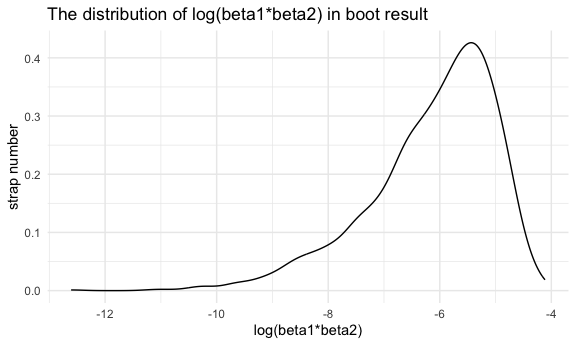
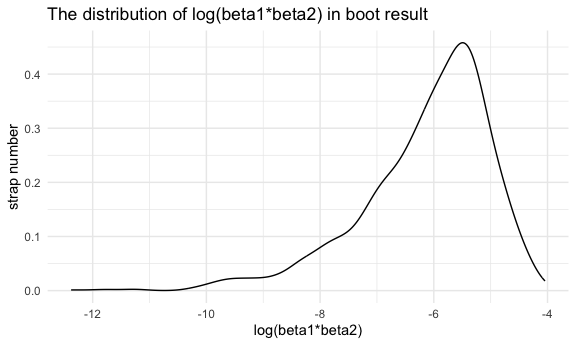
add backward stepwise for variable selection in problem 3

diff --git a/p8105_hw6_zl2746.md b/p8105_hw6_zl2746.md
@@ -220,18 +220,18 @@ boot_results2
 ```
 
     ## # A tibble: 5,000 × 6
-    ##    strap_number r_squared `(Intercept)`  tmin       prcp log_beta
-    ##           <int>     <dbl>         <dbl> <dbl>      <dbl>    <dbl>
-    ##  1            1     0.903          8.14 0.994 -0.0000562   NaN   
-    ##  2            2     0.913          8.12 1.00   0.00334      -5.70
-    ##  3            3     0.929          8.00 1.04  -0.00615     NaN   
-    ##  4            4     0.915          7.93 1.02  -0.00271     NaN   
-    ##  5            5     0.926          7.49 1.04  -0.00250     NaN   
-    ##  6            6     0.924          8.14 1.03  -0.00752     NaN   
-    ##  7            7     0.917          7.70 1.03   0.00301      -5.78
-    ##  8            8     0.917          8.57 0.998 -0.00769     NaN   
-    ##  9            9     0.927          7.96 1.04  -0.00483     NaN   
-    ## 10           10     0.918          8.12 1.00   0.00819      -4.80
+    ##    strap_number r_squared `(Intercept)`  tmin      prcp log_beta
+    ##           <int>     <dbl>         <dbl> <dbl>     <dbl>    <dbl>
+    ##  1            1     0.922          8.13 1.02  -0.00616    NaN   
+    ##  2            2     0.915          8.13 1.01   0.00339     -5.67
+    ##  3            3     0.933          7.73 1.04  -0.00592    NaN   
+    ##  4            4     0.932          7.82 1.04  -0.00791    NaN   
+    ##  5            5     0.932          8.03 1.03  -0.0102     NaN   
+    ##  6            6     0.916          7.76 1.02  -0.000261   NaN   
+    ##  7            7     0.907          8.08 1.01   0.00113     -6.77
+    ##  8            8     0.895          8.13 0.992  0.000245    -8.32
+    ##  9            9     0.898          7.93 1.01  -0.00585    NaN   
+    ## 10           10     0.917          8.09 1.01  -0.00397    NaN   
     ## # ℹ 4,990 more rows
 
 ``` r
@@ -340,7 +340,7 @@ fraction = nrow(valid_log)/5000
 fraction
 ```
 
-    ## [1] 0.3234
+    ## [1] 0.3308
 
 ``` r
 # construct a CI for log(beta1*beta2)
@@ -355,7 +355,7 @@ boot_results2 |>
     ## # A tibble: 1 × 2
     ##   ci_lower ci_upper
     ##      <dbl>    <dbl>
-    ## 1    -8.88    -4.62
+    ## 1    -9.11    -4.53
 
 ``` r
 # construct a CI for r squared
@@ -371,7 +371,7 @@ boot_results2 |>
     ##      <dbl>    <dbl>
     ## 1    0.889    0.940
 
-**There is only 0.3234 of dataset can be used for log(beta1 \* beta2).**
+**There is only 0.3308 of dataset can be used for log(beta1 \* beta2).**
 
 ## Problem 3
 
@@ -455,55 +455,189 @@ summary(model)
     ## F-statistic: 524.6 on 21 and 4320 DF,  p-value: < 2.2e-16
 
 ``` r
-# variable selection
-model |>
-  broom::tidy() |>
-  filter(p.value < 0.05)
+# variable selection by backward stepwise
+model1 = step(model, direction = "backward")
 ```
 
-    ## # A tibble: 8 × 5
-    ##   term        estimate std.error statistic   p.value
-    ##   <chr>          <dbl>     <dbl>     <dbl>     <dbl>
-    ## 1 (Intercept) -6307.     659.        -9.57 1.80e- 21
-    ## 2 babysexmale   -28.7      8.47      -3.39 7.02e-  4
-    ## 3 bhead         131.       3.45      37.9  2.16e-271
-    ## 4 blength        75.0      2.02      37.1  1.75e-261
-    ## 5 delwt           4.10     0.395     10.4  5.62e- 25
-    ## 6 gaweeks        11.5      1.47       7.88 4.06e- 15
-    ## 7 parity         95.5     40.5        2.36 1.83e-  2
-    ## 8 smoken         -4.85     0.587     -8.27 1.78e- 16
+    ## Start:  AIC=48717.83
+    ## bwt ~ babysex + bhead + blength + delwt + fincome + frace + gaweeks + 
+    ##     malform + menarche + mheight + momage + mrace + parity + 
+    ##     pnumlbw + pnumsga + ppbmi + ppwt + smoken + wtgain
+    ## 
+    ## 
+    ## Step:  AIC=48717.83
+    ## bwt ~ babysex + bhead + blength + delwt + fincome + frace + gaweeks + 
+    ##     malform + menarche + mheight + momage + mrace + parity + 
+    ##     pnumlbw + pnumsga + ppbmi + ppwt + smoken
+    ## 
+    ## 
+    ## Step:  AIC=48717.83
+    ## bwt ~ babysex + bhead + blength + delwt + fincome + frace + gaweeks + 
+    ##     malform + menarche + mheight + momage + mrace + parity + 
+    ##     pnumlbw + ppbmi + ppwt + smoken
+    ## 
+    ## 
+    ## Step:  AIC=48717.83
+    ## bwt ~ babysex + bhead + blength + delwt + fincome + frace + gaweeks + 
+    ##     malform + menarche + mheight + momage + mrace + parity + 
+    ##     ppbmi + ppwt + smoken
+    ## 
+    ##            Df Sum of Sq       RSS   AIC
+    ## - frace     4    124365 320848704 48712
+    ## - malform   1      1419 320725757 48716
+    ## - ppbmi     1      6346 320730684 48716
+    ## - momage    1     28661 320752999 48716
+    ## - mheight   1     66886 320791224 48717
+    ## - menarche  1    111679 320836018 48717
+    ## - ppwt      1    131132 320855470 48718
+    ## <none>                  320724338 48718
+    ## - fincome   1    193454 320917792 48718
+    ## - parity    1    413584 321137922 48721
+    ## - mrace     3    868321 321592659 48724
+    ## - babysex   1    853796 321578134 48727
+    ## - gaweeks   1   4611823 325336161 48778
+    ## - smoken    1   5076393 325800732 48784
+    ## - delwt     1   8008891 328733230 48823
+    ## - blength   1 102050296 422774634 49915
+    ## - bhead     1 106535716 427260054 49961
+    ## 
+    ## Step:  AIC=48711.51
+    ## bwt ~ babysex + bhead + blength + delwt + fincome + gaweeks + 
+    ##     malform + menarche + mheight + momage + mrace + parity + 
+    ##     ppbmi + ppwt + smoken
+    ## 
+    ##            Df Sum of Sq       RSS   AIC
+    ## - malform   1      1447 320850151 48710
+    ## - ppbmi     1      6975 320855679 48710
+    ## - momage    1     28379 320877083 48710
+    ## - mheight   1     69502 320918206 48710
+    ## - menarche  1    115708 320964411 48711
+    ## - ppwt      1    133961 320982665 48711
+    ## <none>                  320848704 48712
+    ## - fincome   1    194405 321043108 48712
+    ## - parity    1    414687 321263390 48715
+    ## - babysex   1    852133 321700837 48721
+    ## - gaweeks   1   4625208 325473911 48772
+    ## - smoken    1   5036389 325885093 48777
+    ## - delwt     1   8013099 328861802 48817
+    ## - mrace     3  13540415 334389119 48885
+    ## - blength   1 101995688 422844392 49908
+    ## - bhead     1 106662962 427511666 49956
+    ## 
+    ## Step:  AIC=48709.53
+    ## bwt ~ babysex + bhead + blength + delwt + fincome + gaweeks + 
+    ##     menarche + mheight + momage + mrace + parity + ppbmi + ppwt + 
+    ##     smoken
+    ## 
+    ##            Df Sum of Sq       RSS   AIC
+    ## - ppbmi     1      6928 320857079 48708
+    ## - momage    1     28660 320878811 48708
+    ## - mheight   1     69320 320919470 48708
+    ## - menarche  1    116027 320966177 48709
+    ## - ppwt      1    133894 320984044 48709
+    ## <none>                  320850151 48710
+    ## - fincome   1    193784 321043934 48710
+    ## - parity    1    414482 321264633 48713
+    ## - babysex   1    851279 321701430 48719
+    ## - gaweeks   1   4624003 325474154 48770
+    ## - smoken    1   5035195 325885346 48775
+    ## - delwt     1   8029079 328879230 48815
+    ## - mrace     3  13553320 334403471 48883
+    ## - blength   1 102009225 422859375 49906
+    ## - bhead     1 106675331 427525481 49954
+    ## 
+    ## Step:  AIC=48707.63
+    ## bwt ~ babysex + bhead + blength + delwt + fincome + gaweeks + 
+    ##     menarche + mheight + momage + mrace + parity + ppwt + smoken
+    ## 
+    ##            Df Sum of Sq       RSS   AIC
+    ## - momage    1     29211 320886290 48706
+    ## - menarche  1    117635 320974714 48707
+    ## <none>                  320857079 48708
+    ## - fincome   1    195199 321052278 48708
+    ## - parity    1    412984 321270064 48711
+    ## - babysex   1    850020 321707099 48717
+    ## - mheight   1   1078673 321935752 48720
+    ## - ppwt      1   2934023 323791103 48745
+    ## - gaweeks   1   4621504 325478583 48768
+    ## - smoken    1   5039368 325896447 48773
+    ## - delwt     1   8024939 328882018 48813
+    ## - mrace     3  13551444 334408523 48881
+    ## - blength   1 102018559 422875638 49904
+    ## - bhead     1 106821342 427678421 49953
+    ## 
+    ## Step:  AIC=48706.02
+    ## bwt ~ babysex + bhead + blength + delwt + fincome + gaweeks + 
+    ##     menarche + mheight + mrace + parity + ppwt + smoken
+    ## 
+    ##            Df Sum of Sq       RSS   AIC
+    ## - menarche  1    100121 320986412 48705
+    ## <none>                  320886290 48706
+    ## - fincome   1    240800 321127090 48707
+    ## - parity    1    431433 321317724 48710
+    ## - babysex   1    841278 321727568 48715
+    ## - mheight   1   1076739 321963029 48719
+    ## - ppwt      1   2913653 323799943 48743
+    ## - gaweeks   1   4676469 325562760 48767
+    ## - smoken    1   5045104 325931394 48772
+    ## - delwt     1   8000672 328886962 48811
+    ## - mrace     3  14667730 335554021 48894
+    ## - blength   1 101990556 422876847 49902
+    ## - bhead     1 106864308 427750598 49952
+    ## 
+    ## Step:  AIC=48705.38
+    ## bwt ~ babysex + bhead + blength + delwt + fincome + gaweeks + 
+    ##     mheight + mrace + parity + ppwt + smoken
+    ## 
+    ##           Df Sum of Sq       RSS   AIC
+    ## <none>                 320986412 48705
+    ## - fincome  1    245637 321232048 48707
+    ## - parity   1    422770 321409181 48709
+    ## - babysex  1    846134 321832545 48715
+    ## - mheight  1   1012240 321998651 48717
+    ## - ppwt     1   2907049 323893461 48743
+    ## - gaweeks  1   4662501 325648912 48766
+    ## - smoken   1   5073849 326060260 48771
+    ## - delwt    1   8137459 329123871 48812
+    ## - mrace    3  14683609 335670021 48894
+    ## - blength  1 102191779 423178191 49903
+    ## - bhead    1 106779754 427766166 49950
 
 ``` r
-model1 = lm(bwt ~ gaweeks + ppbmi + blength + bhead + smoken + wtgain + babysex, 
-            data = birthweight)
 summary(model1)
 ```
 
     ## 
     ## Call:
-    ## lm(formula = bwt ~ gaweeks + ppbmi + blength + bhead + smoken + 
-    ##     wtgain + babysex, data = birthweight)
+    ## lm(formula = bwt ~ babysex + bhead + blength + delwt + fincome + 
+    ##     gaweeks + mheight + mrace + parity + ppwt + smoken, data = birthweight)
     ## 
     ## Residuals:
     ##      Min       1Q   Median       3Q      Max 
-    ## -1091.57  -187.52    -8.63   174.13  2566.93 
+    ## -1097.18  -185.52    -3.39   174.14  2353.44 
     ## 
     ## Coefficients:
-    ##               Estimate Std. Error t value Pr(>|t|)    
-    ## (Intercept) -6173.4659    98.5684 -62.631  < 2e-16 ***
-    ## gaweeks        13.5098     1.5040   8.983  < 2e-16 ***
-    ## ppbmi           5.1251     1.3654   3.754 0.000177 ***
-    ## blength        79.5299     2.0705  38.410  < 2e-16 ***
-    ## bhead         137.6129     3.5433  38.838  < 2e-16 ***
-    ## smoken         -1.9977     0.5827  -3.428 0.000613 ***
-    ## wtgain          3.7204     0.4054   9.177  < 2e-16 ***
-    ## babysexmale   -32.4025     8.7512  -3.703 0.000216 ***
+    ##                     Estimate Std. Error t value Pr(>|t|)    
+    ## (Intercept)       -6145.1507   141.9496 -43.291  < 2e-16 ***
+    ## babysexmale         -28.5580     8.4549  -3.378 0.000737 ***
+    ## bhead               130.7770     3.4466  37.944  < 2e-16 ***
+    ## blength              74.9471     2.0190  37.120  < 2e-16 ***
+    ## delwt                 4.1067     0.3921  10.475  < 2e-16 ***
+    ## fincome               0.3180     0.1747   1.820 0.068844 .  
+    ## gaweeks              11.5925     1.4621   7.929 2.79e-15 ***
+    ## mheight               6.5940     1.7849   3.694 0.000223 ***
+    ## mraceBlack          -63.9057    42.3663  -1.508 0.131523    
+    ## mracePuerto Rican   -25.7914    45.3502  -0.569 0.569578    
+    ## mraceWhite           74.8868    42.3146   1.770 0.076837 .  
+    ## parity               96.3047    40.3362   2.388 0.017004 *  
+    ## ppwt                 -2.6756     0.4274  -6.261 4.20e-10 ***
+    ## smoken               -4.8434     0.5856  -8.271  < 2e-16 ***
     ## ---
     ## Signif. codes:  0 '***' 0.001 '**' 0.01 '*' 0.05 '.' 0.1 ' ' 1
     ## 
-    ## Residual standard error: 282.6 on 4334 degrees of freedom
-    ## Multiple R-squared:  0.6961, Adjusted R-squared:  0.6956 
-    ## F-statistic:  1418 on 7 and 4334 DF,  p-value: < 2.2e-16
+    ## Residual standard error: 272.3 on 4328 degrees of freedom
+    ## Multiple R-squared:  0.7181, Adjusted R-squared:  0.7173 
+    ## F-statistic: 848.1 on 13 and 4328 DF,  p-value: < 2.2e-16
 
 ``` r
 birthweight_df <- birthweight |> 
@@ -653,7 +787,7 @@ rmse_test3 = rmse(model3, test)
 rmse_train1; rmse_train2; rmse_train3;
 ```
 
-    ## [1] 240.5241
+    ## [1] 227.4741
 
     ## [1] 298.5854
 
@@ -663,7 +797,7 @@ rmse_train1; rmse_train2; rmse_train3;
 rmse_test1; rmse_test2; rmse_test3
 ```
 
-    ## [1] 283.0185
+    ## [1] 272.6578
 
     ## [1] 333.716
 
@@ -729,7 +863,7 @@ cv_results |>
     ## # A tibble: 3 × 2
     ##   model_type m_rmse
     ##   <chr>       <dbl>
-    ## 1 model1       282.
+    ## 1 model1       272.
     ## 2 model2       331.
     ## 3 model3       287.
 
